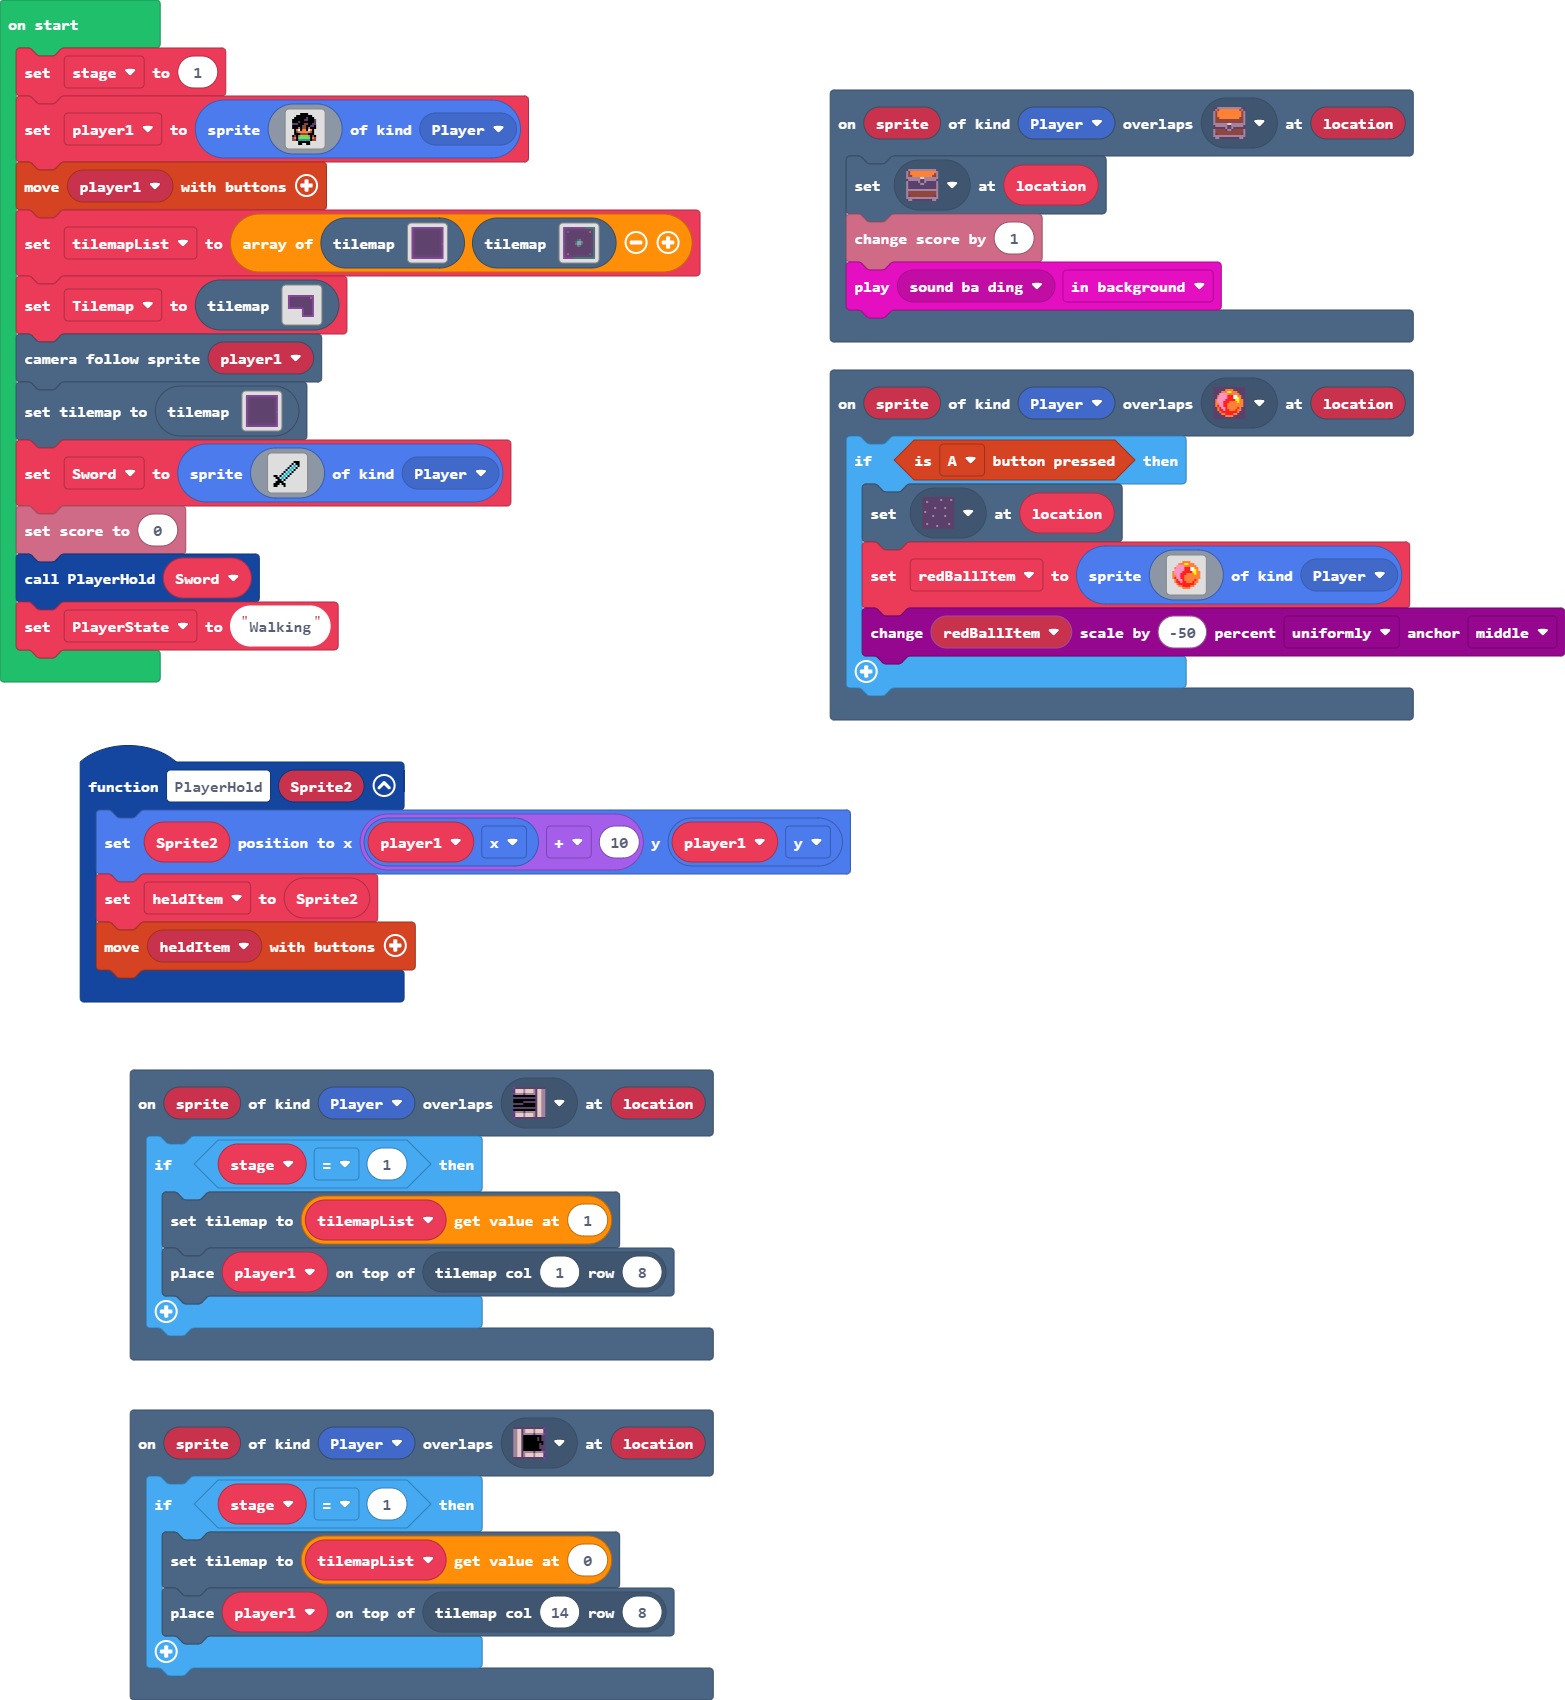
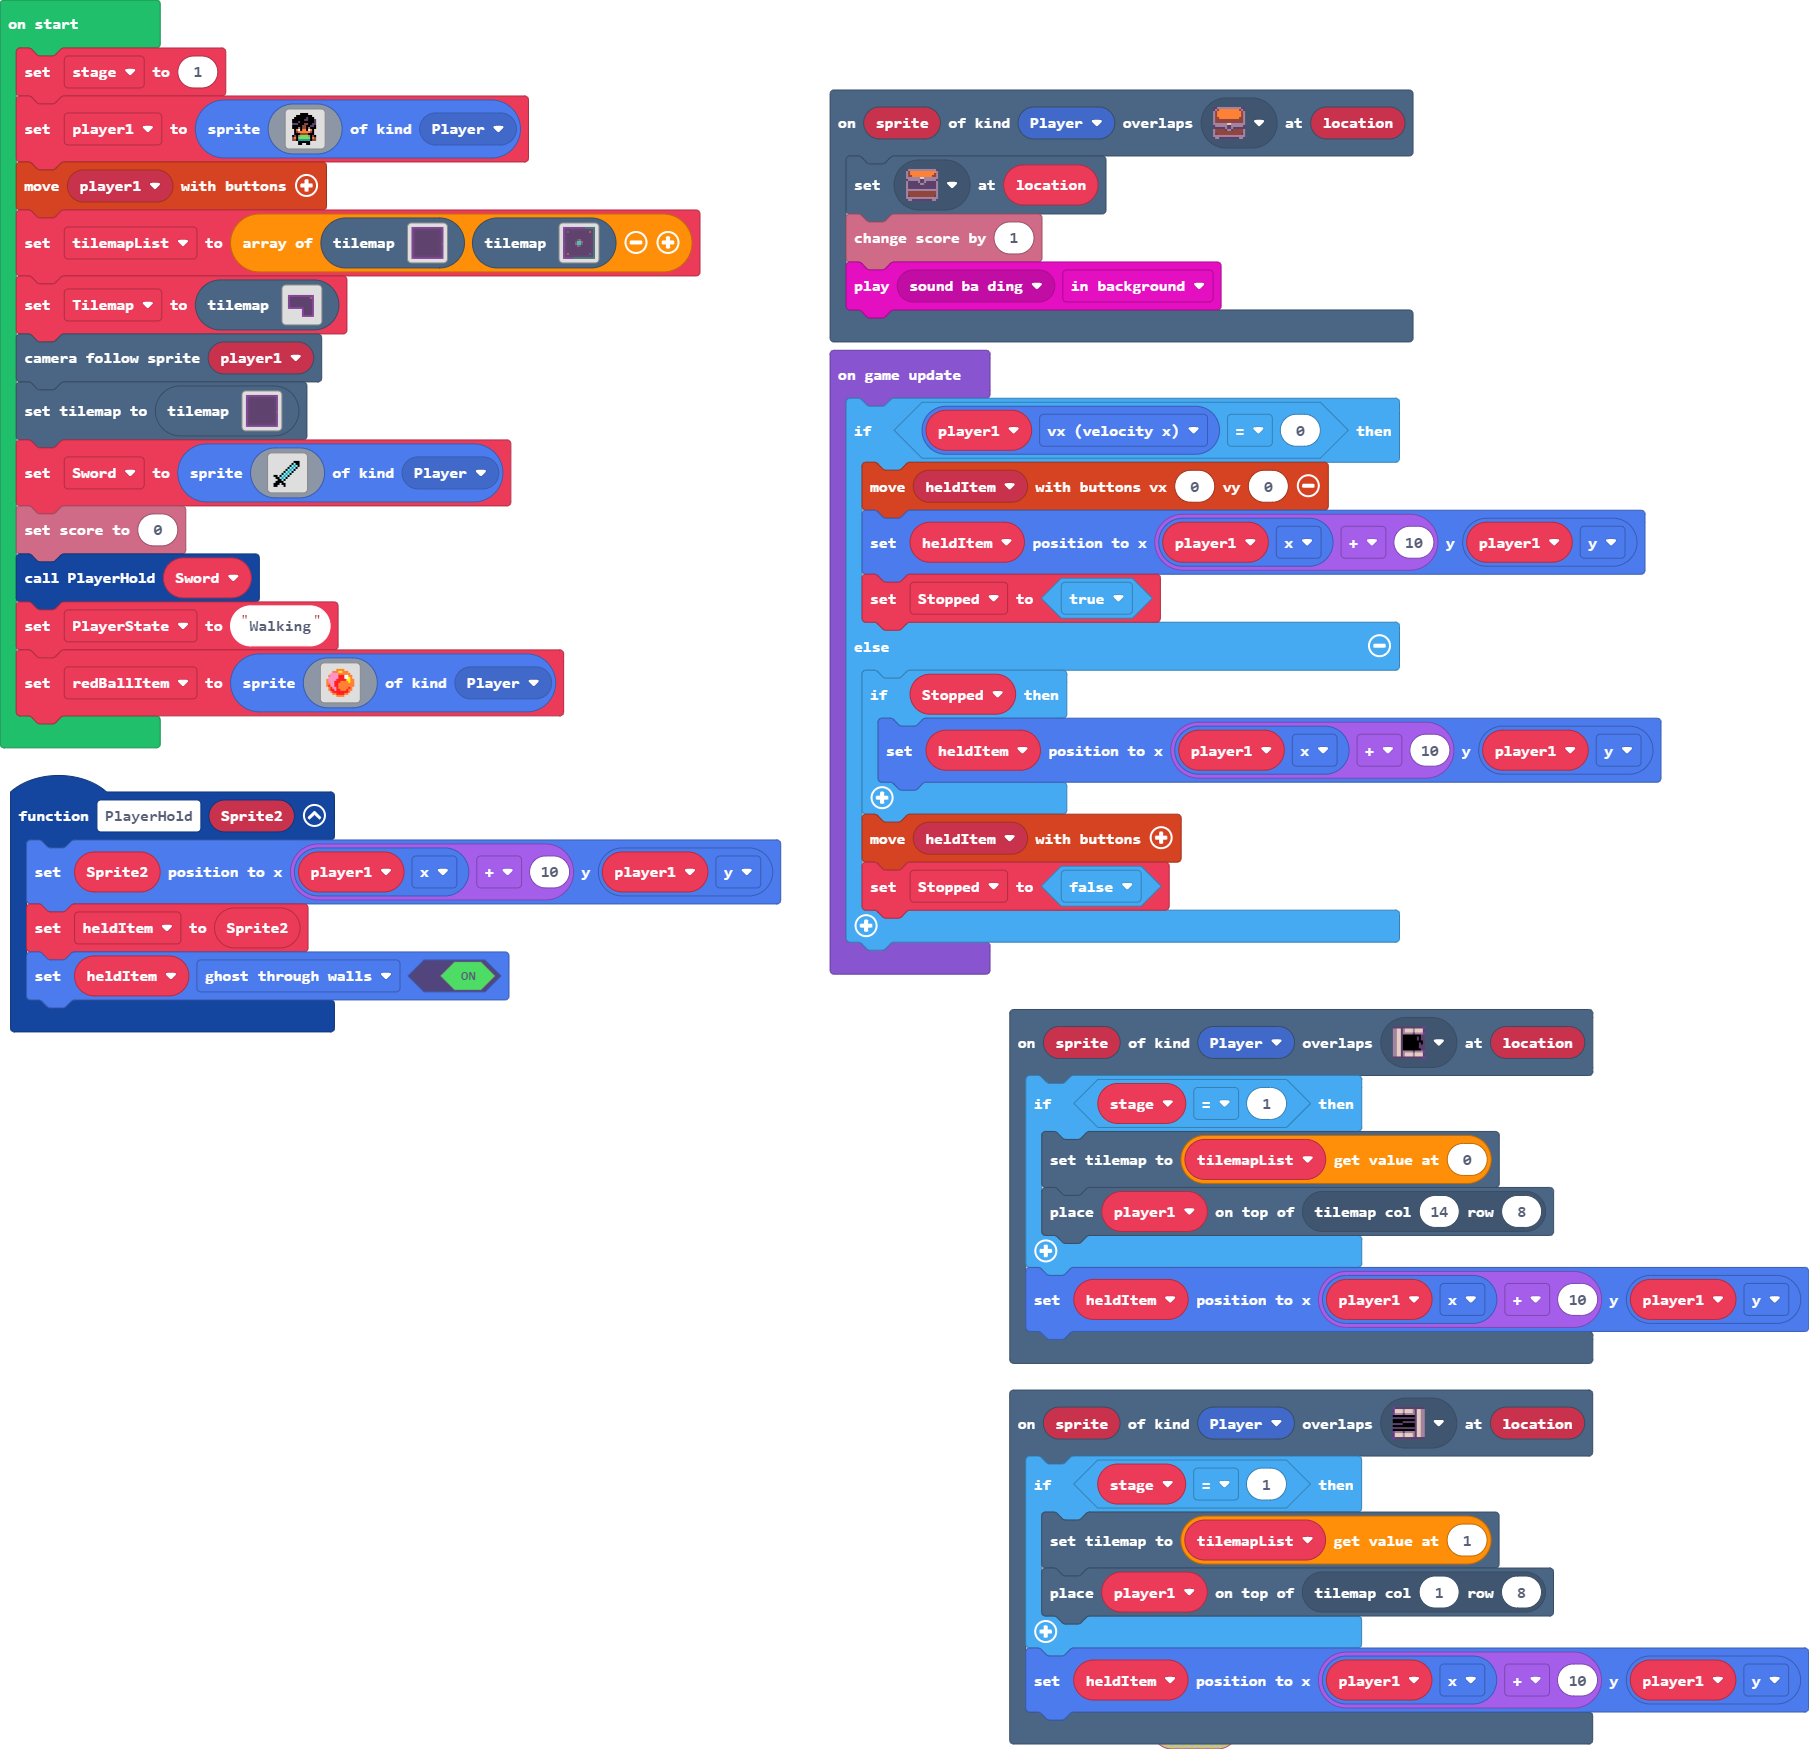
Holding Sword Works

diff --git a/main.ts b/main.ts
@@ -1,32 +1,9 @@
-scene.onOverlapTile(SpriteKind.Player, assets.tile`myTile1`, function (sprite, location) {
-    if (controller.A.isPressed()) {
-        tiles.setTileAt(location, sprites.dungeon.darkGroundCenter)
-        redBallItem = sprites.create(img`
-            . . . . . . . . . . . . . . . . 
-            . . . . . . 4 4 4 4 . . . . . . 
-            . . . . 4 4 4 5 5 4 4 4 . . . . 
-            . . . 3 3 3 3 4 4 4 4 4 4 . . . 
-            . . 4 3 3 3 3 2 2 2 1 1 4 4 . . 
-            . . 3 3 3 3 3 2 2 2 1 1 5 4 . . 
-            . 4 3 3 3 3 2 2 2 2 2 5 5 4 4 . 
-            . 4 3 3 3 2 2 2 4 4 4 4 5 4 4 . 
-            . 4 4 3 3 2 2 4 4 4 4 4 4 4 4 . 
-            . 4 2 3 3 2 2 4 4 4 4 4 4 4 4 . 
-            . . 4 2 3 3 2 4 4 4 4 4 2 4 . . 
-            . . 4 2 2 3 2 2 4 4 4 2 4 4 . . 
-            . . . 4 2 2 2 2 2 2 2 2 4 . . . 
-            . . . . 4 4 2 2 2 2 4 4 . . . . 
-            . . . . . . 4 4 4 4 . . . . . . 
-            . . . . . . . . . . . . . . . . 
-            `, SpriteKind.Player)
-        scaling.scaleByPercent(redBallItem, -50, ScaleDirection.Uniformly, ScaleAnchor.Middle)
-    }
-})
 scene.onOverlapTile(SpriteKind.Player, sprites.dungeon.doorClosedEast, function (sprite, location) {
     if (stage == 1) {
         tiles.setCurrentTilemap(tilemapList[1])
         tiles.placeOnTile(player1, tiles.getTileLocation(1, 8))
     }
+    heldItem.setPosition(player1.x + 10, player1.y)
 })
 scene.onOverlapTile(SpriteKind.Player, assets.tile`myTile`, function (sprite, location) {
     tiles.setTileAt(location, assets.tile`openChest`)
@@ -36,16 +13,17 @@ scene.onOverlapTile(SpriteKind.Player, assets.tile`myTile`, function (sprite, lo
 function PlayerHold (Sprite2: Sprite) {
     Sprite2.setPosition(player1.x + 10, player1.y)
     heldItem = Sprite2
-    controller.moveSprite(heldItem)
+    heldItem.setFlag(SpriteFlag.GhostThroughWalls, true)
 }
 scene.onOverlapTile(SpriteKind.Player, sprites.dungeon.doorOpenWest, function (sprite, location) {
     if (stage == 1) {
         tiles.setCurrentTilemap(tilemapList[0])
         tiles.placeOnTile(player1, tiles.getTileLocation(14, 8))
     }
+    heldItem.setPosition(player1.x + 10, player1.y)
 })
+let Stopped = false
 let heldItem: Sprite = null
-let redBallItem: Sprite = null
 let tilemapList: tiles.TileMapData[] = []
 let player1: Sprite = null
 let stage = 0
@@ -94,3 +72,34 @@ let Sword = sprites.create(img`
 info.setScore(0)
 PlayerHold(Sword)
 let PlayerState = "Walking"
+let redBallItem = sprites.create(img`
+    . . . . . . . . . . . . . . . . 
+    . . . . . . 4 4 4 4 . . . . . . 
+    . . . . 4 4 4 5 5 4 4 4 . . . . 
+    . . . 3 3 3 3 4 4 4 4 4 4 . . . 
+    . . 4 3 3 3 3 2 2 2 1 1 4 4 . . 
+    . . 3 3 3 3 3 2 2 2 1 1 5 4 . . 
+    . 4 3 3 3 3 2 2 2 2 2 5 5 4 4 . 
+    . 4 3 3 3 2 2 2 4 4 4 4 5 4 4 . 
+    . 4 4 3 3 2 2 4 4 4 4 4 4 4 4 . 
+    . 4 2 3 3 2 2 4 4 4 4 4 4 4 4 . 
+    . . 4 2 3 3 2 4 4 4 4 4 2 4 . . 
+    . . 4 2 2 3 2 2 4 4 4 2 4 4 . . 
+    . . . 4 2 2 2 2 2 2 2 2 4 . . . 
+    . . . . 4 4 2 2 2 2 4 4 . . . . 
+    . . . . . . 4 4 4 4 . . . . . . 
+    . . . . . . . . . . . . . . . . 
+    `, SpriteKind.Player)
+game.onUpdate(function () {
+    if (player1.vx == 0) {
+        controller.moveSprite(heldItem, 0, 0)
+        heldItem.setPosition(player1.x + 10, player1.y)
+        Stopped = true
+    } else {
+        if (Stopped) {
+            heldItem.setPosition(player1.x + 10, player1.y)
+        }
+        controller.moveSprite(heldItem)
+        Stopped = false
+    }
+})
